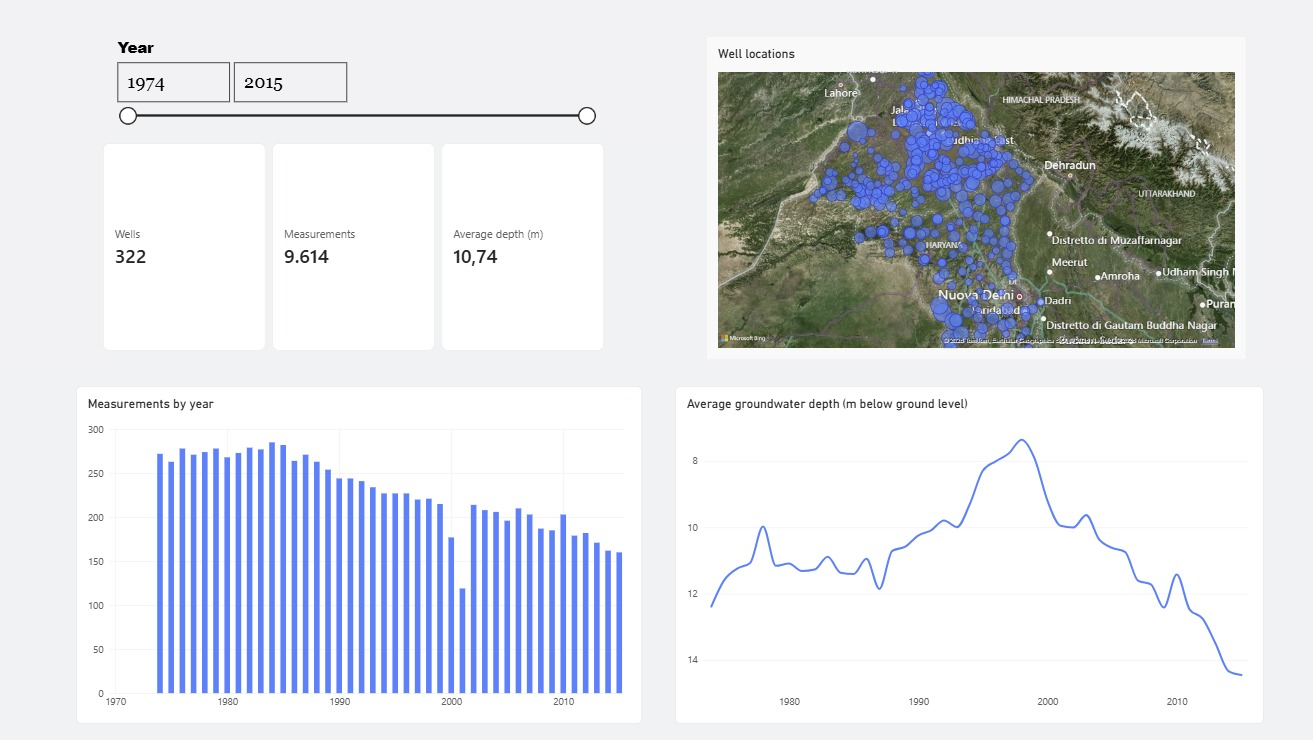
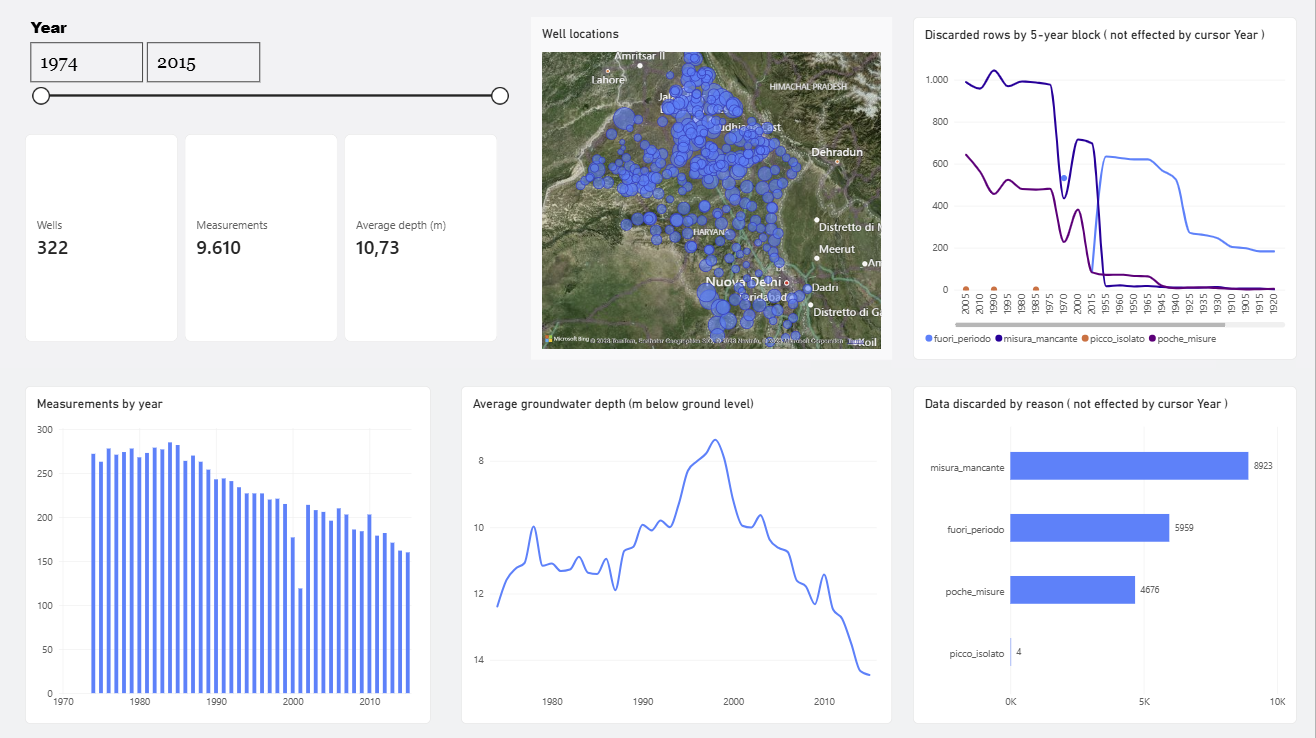
Aggiorno il README, il requirments.txt e il dashboard

diff --git a/README.md b/README.md
@@ -1,75 +1,95 @@
 # Groundwater levels in Punjab and Haryana, 1974-2015
-
-A small data pipeline I built to practise the whole path of a data project: get public data, clean it, store it in a database and look at what it says.
-
+ 
+A small data pipeline I built to practise the whole path of a data project: get public data, check its quality, store it in a database and look at what it says.
+ 
 The data are groundwater measurements from wells in northwest India. The water table in this area is a topic I care about, so I wanted my first project to be about it.
-
+ 
+![Power BI dashboard](dashboard.png)
+ 
+The dashboard reads the MySQL database. The Year cursor filters the valid measurements. The two charts on the rejected rows (right side) show the whole dataset and are not filtered by the cursor, because they include the years outside 1974-2015.
+ 
 ![Average depth of the water table and number of measurements per year](grafico.png)
-
+ 
 ## What it does
-
+ 
 1. Downloads the dataset and keeps the wells in India.
-2. Cleans it (more on this below).
-3. Saves it in MySQL, in two tables: one for the wells and one for the measurements.
-4. Runs a SQL query for the average depth and the number of measurements per year, and plots the result.
-
-Tools: Python, Pandas, SQLAlchemy, MySQL, Matplotlib, Git.
-
+2. Applies four data quality rules. Every row either passes or is rejected with a reason.
+3. Loads the valid rows into MySQL (tables `pozzi` and `misure`) and the rejected rows into a third table (`scarti`), all in one transaction.
+4. Checks that valid rows + rejected rows = rows downloaded. If not, the pipeline stops.
+5. Runs a SQL query for the average depth and the number of measurements per year, and plots the result. A Power BI dashboard reads the same database.
+Running the pipeline again gives the same result: it empties the three tables and reloads them in one transaction.
+ 
+Tools: Python, Pandas, SQLAlchemy, MySQL, Matplotlib, Power BI, Git.
+ 
 ## The data
-
-The dataset is public (MacAllister et al., 2022) and I load it with the *aqua_fetch* library. It has 717 wells in India and 20,249 measurements, one per well per year, taken in October. The value I use is the depth of the water in metres below the ground: the bigger the number, the deeper the water.
-
-## What I changed in the data, and why
-
-- Many rows had no measurement, so I dropped them.
-- Before 1900 there are only a few measurements per year, so I left those years out.
-- Around 1973 the number of wells measured each year jumps from about 150 to about 370. To avoid comparing two different networks, I start in 1974.
-- I kept only the wells with at least 30 measurements, so the trend is based mostly on the same wells over time.
-- 2016 and 2017 have very few measurements (70 and 62), so I stopped at 2015.
-
-What is left: 322 wells and 9,614 measurements.
-
+ 
+The dataset is "A century of groundwater accumulation in Pakistan and northwest India", compiled by the British Geological Survey with partners in India and Pakistan (MacAllister, Krishan, Basharat, MacDonald). It was used in a paper in *Nature Geoscience* (MacAllister et al., 2022). The full file has about 68,800 rows from 4,028 observation wells in Haryana and Punjab (India) and Punjab (Pakistan), with dates from 1884 to 2020.
+ 
+I load it with the *aqua_fetch* library (function `gw_punjab`, `data_type="full"`) and keep only the Indian wells: 717 wells and 29,172 rows. Each row is one well in one year, and the measurement is dated 1 October. Years without a measurement appear as empty rows: 8,923 of the 29,172 rows are empty, and 20,249 have a measurement.
+ 
+Source: https://doi.org/10.5285/150c95f7-18bf-4f66-880b-8364b7257b26 (check the licence terms on the catalogue page).
+ 
+## Data quality rules
+ 
+Rules are applied in this order, and a row gets only the first reason that applies.
+ 
+| Order | Reason | Rule | Rows |
+|---|---|---|---|
+| 1 | `misura_mancante` | the row has no measurement | 8,923 |
+| 2 | `picco_isolato` | the depth differs by more than 15 m from both the previous and the next year, in the same direction | 4 |
+| 3 | `poche_misure` | the well has fewer than 30 valid measurements | 4,676 |
+| 4 | `fuori_periodo` | the year is outside 1974-2015 | 5,959 |
+| | valid | passes all rules | 9,610 |
+ 
+Total: 8,923 + 4 + 4,676 + 5,959 + 9,610 = 29,172.
+ 
+Why these choices:
+ 
+- **15 m jump.** Year-to-year changes are normally small: the 99.9th percentile of the changes is 14.5 m. A value that is more than 15 m away from both neighbours is almost certainly a typing error. The clearest case is well IND1087: about 10 m in 1989, 89.89 m in 1990, 11 m in 1991. A value that is far from only one neighbour is kept, because it can be a real change of level.
+- **30 measurements.** So the trend is based mostly on the same wells over time. The count is made after rules 1 and 2, so a rejected value does not count as a good measurement.
+- **1974-2015.** Around 1973 the number of wells measured each year jumps from about 150 to about 370, and I did not want to compare two different networks. 2016 and 2017 have very few measurements (70 and 62). Before 1900 there are only a few measurements per year.
 ## What I found
-
+ 
 From 1974 to 1998 the average depth went from 12.4 m to 7.4 m, so the water table got closer to the surface. After that it dropped: by 2015 the average depth was 14.5 m, about 7 m deeper than in 1998.
-
+ 
 ## What this does not tell you
-
-- The data stop in 2017.
+ 
+- The Indian wells in the file stop in 2017, even though the full dataset goes up to 2020.
 - The dataset covers the wider Punjab region, so some of the wells are in Haryana.
 - The number of measurements falls from 272 in 1974 to 160 in 2015, so the wells are not exactly the same every year.
 - In 2000 and 2001 there are only 177 and 119 measurements, so those two years are less reliable.
+- The order of the rules decides which reason a row gets: a row outside 1974-2015 that belongs to a well with few measurements is labelled `poche_misure`, not `fuori_periodo`.
+- The spike rule only catches isolated spikes. Well IND428 swings between about 1 m and 31 m from one year to the next in 2004-2010, and the rule flags only two of those values. The rest of that series is probably unreliable too, but I cannot tell which values are true.
+- The 15 m threshold comes from this dataset and would need to be checked on another one.
+- The data are loaded in one go, not in blocks of years. With about 29,000 rows this is fine. Each rejected row stores the 5-year block it belongs to (`start_year`, `end_year`), so that rejections can be looked at by period.
 - I only describe the trend. I do not explain why it happens.
-
-## Run it yourself
-
-1. Install the libraries: *pip install -r requirements.txt*
-2. In MySQL, run *schema.sql* and create a user for the database.
-3. Copy *.env.example* to *.env* and write your own database details.
-4. Run *pipeline.py*, then *grafici.py*.
-
-## Next
-
-I want to schedule the pipeline with Airflow and build a Power BI dashboard on the database. I also need to make the loading step safe to run twice, because right now running it again duplicates the rows.
-
-## Campi del dataset
-
-Ogni riga è la misura di un pozzo in un anno.
-
-| Campo | Cosa contiene |
-|---|---|
-| OW_ID | codice del pozzo (per esempio IND1004) |
-| LOCATION | nome del luogo dove si trova il pozzo |
-| LAT, LONG | coordinate del pozzo |
-| DATE | data della misura, sempre il 1° ottobre |
-| WL_MBGL | profondità dell'acqua in metri sotto il suolo: più è alto, più la falda è profonda |
-
-Molte righe non hanno la misura e le scarto.
-
 ## Database
-
-Due tabelle, `pozzi` (una riga per pozzo) e `misure` (una riga per misura), collegate dal codice del pozzo.
-
-## Dashboard
-
-![Dashboard Power BI](dashboard.png)
+ 
+Three tables in the `falde` database:
+ 
+- `pozzi`: one row per well.
+- `misure`: one row per valid measurement, linked to `pozzi` by the well code.
+- `scarti`: one row per rejected row, with the reason, the 5-year block and the time of loading. It has no link to `pozzi`, because some rejected wells are not in that table.
+## Fields of the dataset
+ 
+Each row is one observation well in one year. These are the columns I import:
+ 
+| Field | What it contains |
+|---|---|
+| OW_ID | code of the observation well (OW = observation well). The codes of the Indian wells start with IND, for example IND1004 |
+| LOCATION | name of the place where the well is |
+| LAT, LONG | coordinates of the well, in decimal degrees |
+| DATE | date of the measurement, always 1 October of the year |
+| WL_MBGL | groundwater level in metres below ground level (MBGL). It is the depth of the water table below the surface, so the bigger the number, the deeper the water. It is not the height of the water. Empty when the year has no measurement |
+ 
+In the database the fields are called `ow_id`, `location`, `lat`, `longi`, `numero_data` and `wl_mbgl`.
+ 
+## Run it yourself
+ 
+1. Install the libraries: `pip install -r requirements.txt`
+2. In MySQL, run `schema.sql` and create a user for the database.
+3. Copy `.env.example` to `.env` and write your own database details.
+4. Run `pipeline.py`, then `grafici.py`.
+## Next
+ 
+I want to rebuild the same pipeline on Azure and Databricks, with Delta tables, so that I can learn how it works at a larger scale. That is also the point where loading in blocks of years would make sense.
